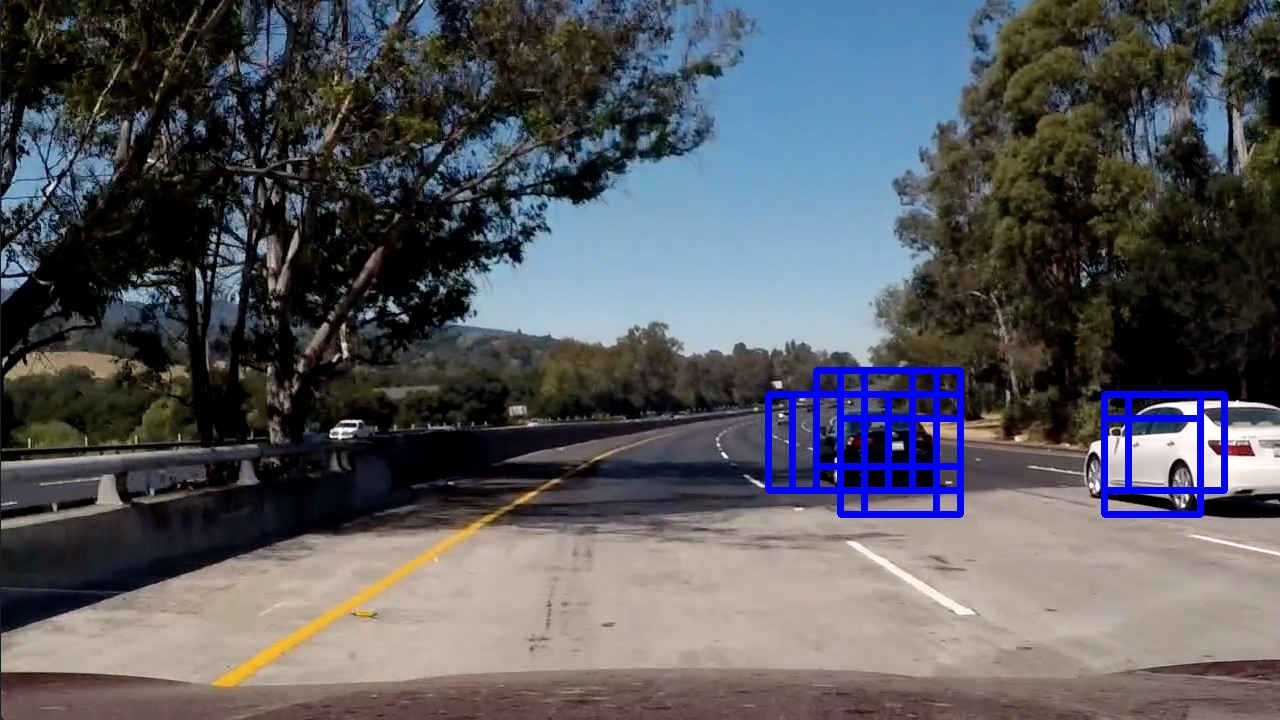
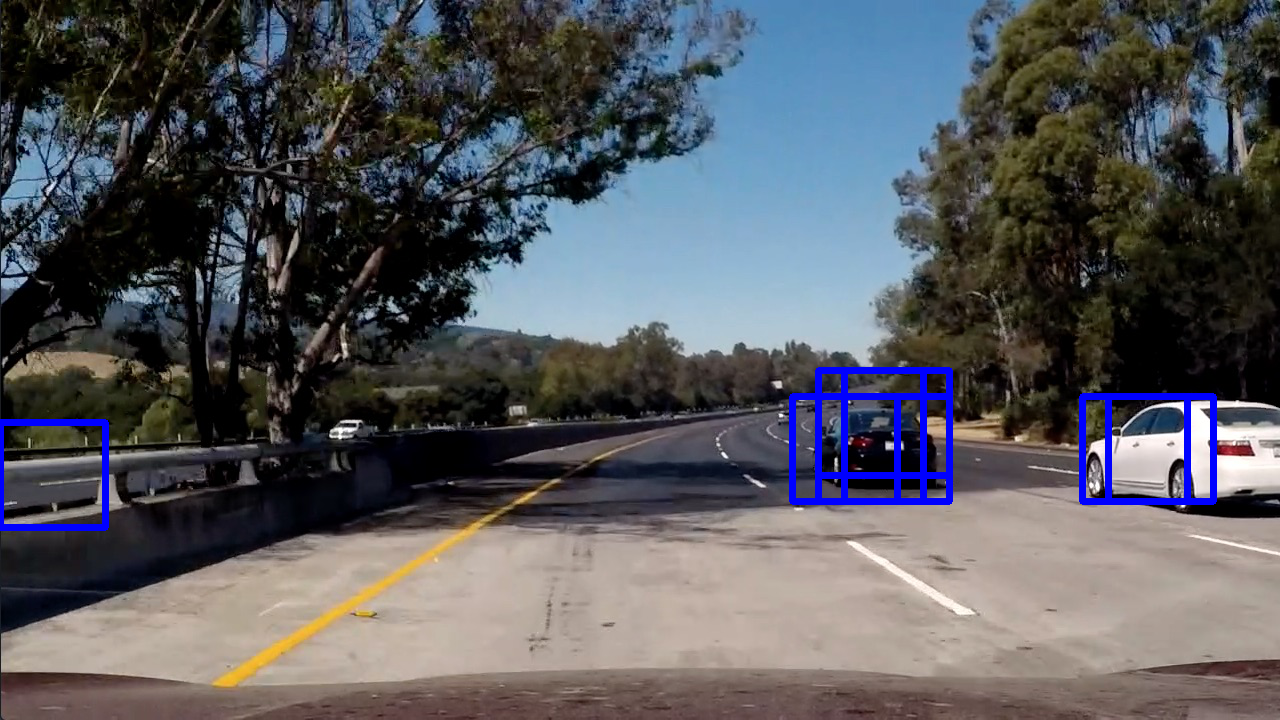
Write-up

Changed region(s): [[0.5938, 0.5194, 0.75, 0.7333], [0.8438, 0.5194, 0.9688, 0.7333], [0.0, 0.5806, 0.0938, 0.7639]]

diff --git a/hog_subsample.py b/hog_subsample.py
@@ -4,6 +4,7 @@ import numpy as np
 import pickle
 import cv2
 import glob
+import os
 from lesson_functions import *
 from filter import *
 
@@ -133,17 +134,23 @@ for image_test in images_test:
 	labels = label(heatmap)
 	draw_img = draw_labeled_bboxes(np.copy(img), labels)
 
+	plt.imsave('./output_images/unfilt_'+os.path.split(image_test)[1],out_img)
+	
 	axarr[ind,0].imshow(out_img)
 	axarr[ind,0].set_xticks([])
 	axarr[ind,0].set_yticks([])
 	title = "Test image {0}".format(ind)
 	axarr[ind,0].set_title(title, fontsize=font_size)
 
+	plt.imsave('./output_images/heatmap_'+os.path.split(image_test)[1],heat)
+	
 	axarr[ind,1].imshow(heat,cmap='hot')
 	axarr[ind,1].set_xticks([])
 	axarr[ind,1].set_yticks([])
 	title = "Test image {0} heatmap".format(ind)
 	axarr[ind,1].set_title(title, fontsize=font_size)
+	
+	plt.imsave('./output_images/filt_'+os.path.split(image_test)[1],draw_img)
 	
 	axarr[ind,2].imshow(draw_img)
 	axarr[ind,2].set_xticks([])
